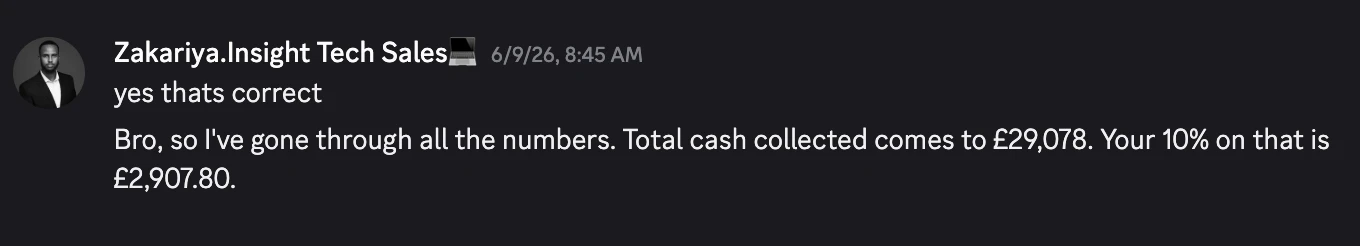
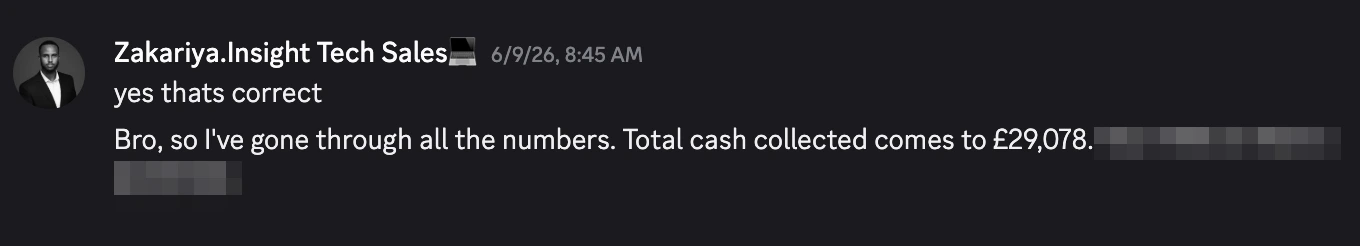
fix: hard-redact rev-share line + Drive video posters
- Blur on the Zakariya DM screenshot was a weak CSS backdrop-blur
  overlay — text still readable. The 'Your 10% ... £2,907.80'
  line is now pixelated in the image file itself; removed the
  overlay spans and deleted the old unredacted chat-revshare.png
  that was still being deployed from public/.
- Aqib/Yaseen testimonial cards showed an empty navy box (no
  thumbnail). DriveVideo now loads Drive's own video thumbnail
  as poster (branded panel fallback if it 404s) and shows a
  spinner while Drive's player spins up.
- Note: Yaseen's Drive file (18Ym5h...) is NOT link-shared —
  verified it bounces to a Google sign-in for the public, so
  the embed can't play until the client sets it to
  'Anyone with the link'. Aqib's file is public.

Changed region(s): [[0.8029, 0.5122, 0.9882, 0.6545], [0.0618, 0.6545, 0.1853, 0.7967]]

diff --git a/src/landing/VideoBits.tsx b/src/landing/VideoBits.tsx
@@ -1,5 +1,5 @@
 import { useState } from 'react'
-import { Play } from 'lucide-react'
+import { Loader2, Play } from 'lucide-react'
 import { cn } from '../utils/cn'
 import type { LpPlatform } from '../data/landing'
 
@@ -106,16 +106,24 @@ export function DriveVideo({
   className?: string
 }) {
   const [playing, setPlaying] = useState(false)
+  // Drive's own video thumbnail. If the file ever stops being link-shared
+  // the thumbnail 404s and we fall back to the branded name panel.
+  const [posterOk, setPosterOk] = useState(true)
   return (
     <div className={cn('group relative aspect-video w-full overflow-hidden rounded-2xl bg-navy-950', className)}>
       {playing ? (
-        <iframe
-          className="absolute inset-0 h-full w-full"
-          src={`https://drive.google.com/file/d/${driveId}/preview`}
-          title={`${name} testimonial`}
-          allow="autoplay; encrypted-media"
-          allowFullScreen
-        />
+        <>
+          <span className="absolute inset-0 grid place-items-center">
+            <Loader2 className="h-8 w-8 animate-spin text-white/40" />
+          </span>
+          <iframe
+            className="absolute inset-0 h-full w-full"
+            src={`https://drive.google.com/file/d/${driveId}/preview`}
+            title={`${name} testimonial`}
+            allow="autoplay; encrypted-media"
+            allowFullScreen
+          />
+        </>
       ) : (
         <button
           type="button"
@@ -123,17 +131,33 @@ export function DriveVideo({
           className="absolute inset-0 h-full w-full cursor-pointer text-left"
           aria-label={`Play ${name}'s testimonial`}
         >
-          <span className="absolute inset-0 bg-navy-950" />
-          <span className="absolute inset-0 bg-[linear-gradient(140deg,rgba(47,107,255,0.35),transparent_55%)]" />
-          <span className="absolute left-6 top-6">
-            <span className="block font-archivo text-3xl font-extrabold tracking-tight text-white">{name}</span>
-            <span className="mt-1 block text-sm text-white/60">{role}</span>
-          </span>
+          {posterOk ? (
+            <>
+              <img
+                src={`https://drive.google.com/thumbnail?id=${driveId}&sz=w1000`}
+                alt={`${name} testimonial`}
+                loading="lazy"
+                referrerPolicy="no-referrer"
+                onError={() => setPosterOk(false)}
+                className="absolute inset-0 h-full w-full object-cover"
+              />
+              <span className="absolute inset-0 bg-black/15 transition-colors group-hover:bg-black/25" />
+            </>
+          ) : (
+            <>
+              <span className="absolute inset-0 bg-navy-950" />
+              <span className="absolute inset-0 bg-[linear-gradient(140deg,rgba(143,86,255,0.35),transparent_55%)]" />
+              <span className="absolute left-6 top-6">
+                <span className="block font-archivo text-3xl font-extrabold tracking-tight text-white">{name}</span>
+                <span className="mt-1 block text-sm text-white/60">{role}</span>
+              </span>
+              <span className="absolute bottom-5 left-6 text-xs font-semibold uppercase tracking-[0.14em] text-white/50">
+                Client testimonial
+              </span>
+            </>
+          )}
           <span className="absolute inset-0 grid place-items-center">
             <PlayButton />
-          </span>
-          <span className="absolute bottom-5 left-6 text-xs font-semibold uppercase tracking-[0.14em] text-white/50">
-            Client testimonial
           </span>
         </button>
       )}

diff --git a/src/landing/LpResults.tsx b/src/landing/LpResults.tsx
@@ -35,15 +35,13 @@ function CardHeader({ avatar, name, meta, chip }: { avatar: string; name: string
   )
 }
 
-// His ask: blur out the "your 10% is £2,907.80" part of the screenshot.
+// The rev-share line in this screenshot is pixelated in the image file itself.
 function CashScreenshot() {
   const { cash } = LP.results
   return (
     <figure>
       <div className="relative overflow-hidden rounded-xl ring-1 ring-white/10">
         <img src={cash.image} alt="Client confirming cash collected from the content" className="block w-full" loading="lazy" />
-        <span className="absolute left-[80%] top-[57%] h-[20%] w-[19.5%] rounded bg-black/40 backdrop-blur-[7px]" />
-        <span className="absolute left-[9.5%] top-[74%] h-[18%] w-[13%] rounded bg-black/40 backdrop-blur-[7px]" />
       </div>
       <figcaption className="mt-3 text-xs font-medium text-white/35">{cash.caption}</figcaption>
     </figure>
